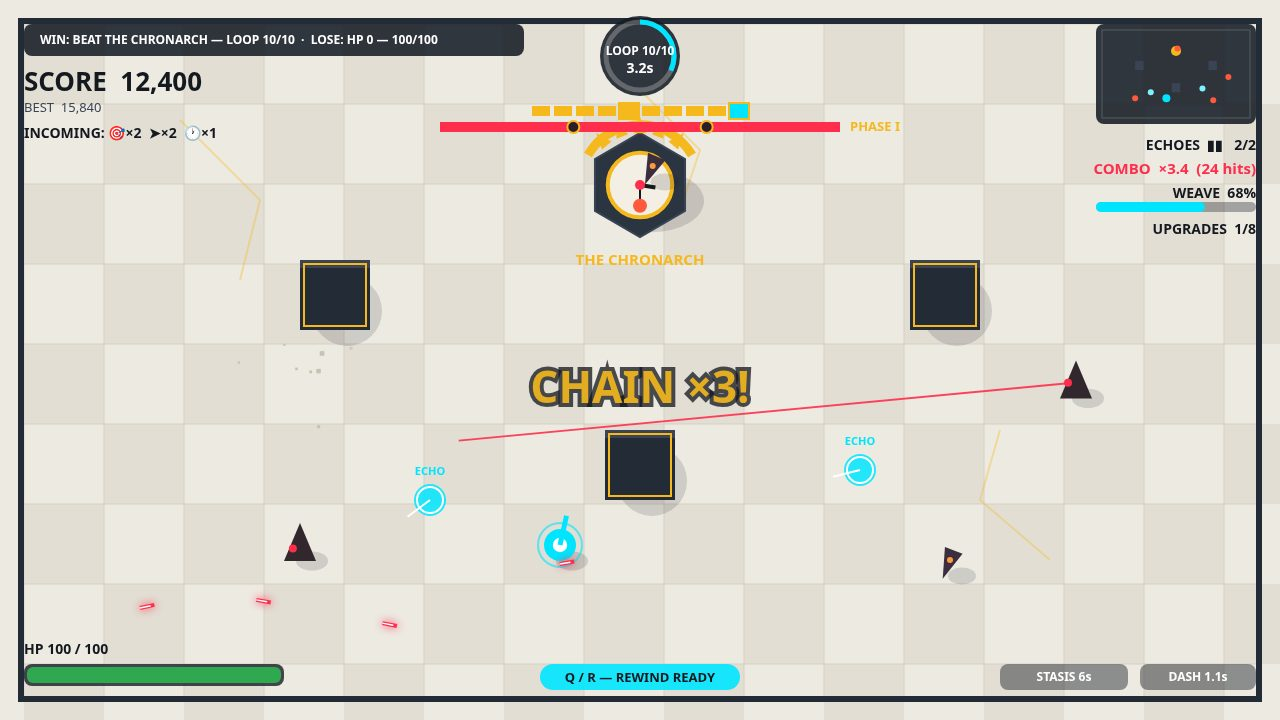
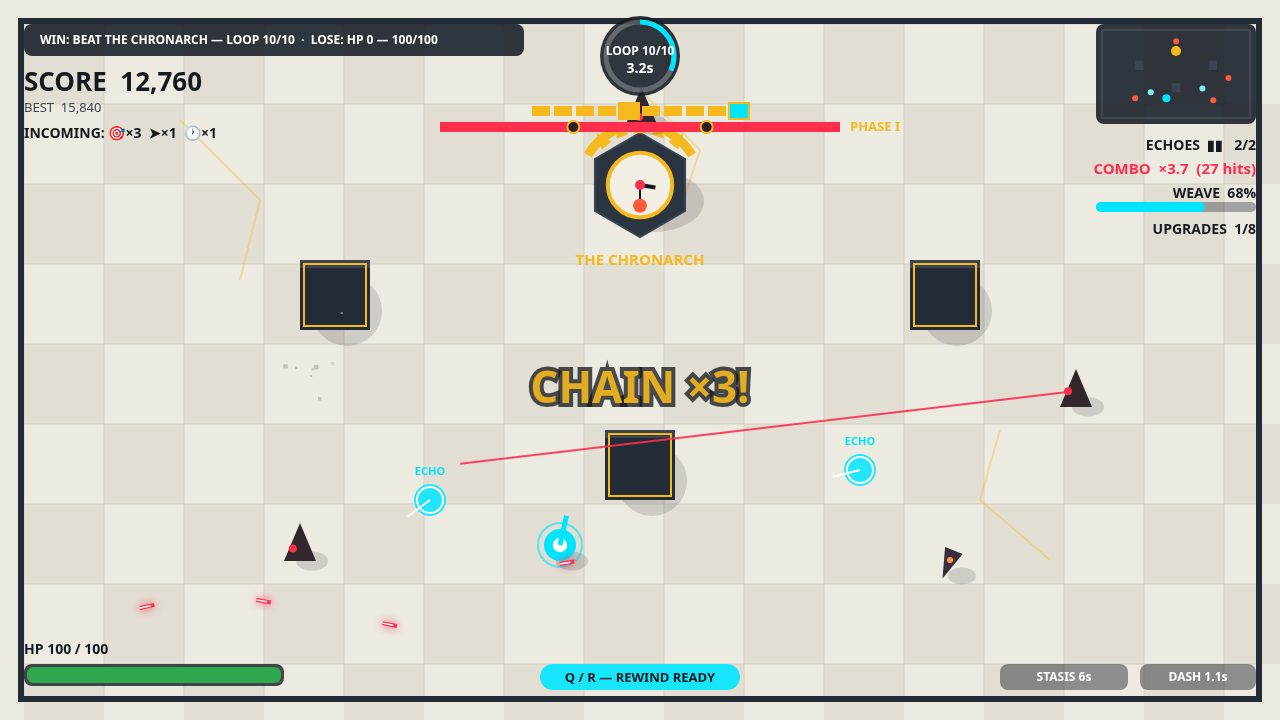
Pass 5: balance counterweight — +20% enemy damage from loop 7, +1 sniper per wave loops 8-10
Measured first: the bot takes exactly one hit per run (always a sniper
bolt, loops 7-9). Damage alone cannot move final HP, so the extra late
sniper adds a bolt-stream the player must actually dodge. Loops 1-6,
upgrades, WEAVE, echoes, rewind untouched. Attempt 2 (+35%, sniper also
in loop 7) undershot the same way AND degraded the hook (seed 9: 9
crossfires, 1 surge) — reverted; attempt 1 kept.

diff --git a/game/src/systems/ArenaDirector.js b/game/src/systems/ArenaDirector.js
@@ -48,6 +48,11 @@ export function layoutPillars(state) {
   state.pillars = pick.map((p) => ({ ...p }));
 }
 
+// PASS 5 COUNTERWEIGHT: loops 8-10 spawn one extra Sniper each. Snipers are
+// the only damage source that ever lands on a strong player (measured: the
+// bot takes exactly one hit per run, always a sniper bolt, loops 7-9) — one
+// more bolt-stream per late wave is pressure the player must actually dodge,
+// not a number tweak on hits that never land.
 export function spawnWave(state, keep) {
   const L = state.loop;
   const elite = L >= 6;
@@ -69,12 +74,12 @@ export function spawnWave(state, keep) {
   }
   else if (L === 6) { add('guardian', 3, true); add('sniper', 2, false); add('bomber', 2, false); add('chaser', 2, false); }
   else if (L === 7) { add('guardian', 3, true); add('sniper', 3, false); add('bomber', 2, false); add('splitter', 2, false); }
-  else if (L === 8) { add('guardian', 4, true); add('sniper', 3, true); add('bomber', 3, false); add('chaser', 2, false); add('splitter', 2, false); }
-  else if (L === 9) { add('guardian', 4, true); add('sniper', 3, true); add('bomber', 3, false); add('chaser', 4, false); add('splitter', 2, true); }
+  else if (L === 8) { add('guardian', 4, true); add('sniper', 4, true); add('bomber', 3, false); add('chaser', 2, false); add('splitter', 2, false); }
+  else if (L === 9) { add('guardian', 4, true); add('sniper', 4, true); add('bomber', 3, false); add('chaser', 4, false); add('splitter', 2, true); }
   else if (L === 10) {
     const c = makeEnemy(state, 'chronarch', 640, 150, false);
     list.push(c); state.boss = c;
-    add('sniper', 2, false); add('chaser', 2, false);
+    add('sniper', 3, false); add('chaser', 2, false);
   }
   // FRAY: a frayed timeline spawns extra Chasers — one per fray (cap 3).
   // The timeout rewind's price, paid at the start of the next loop.

diff --git a/game/src/systems/BallisticsAndShieldSystem.js b/game/src/systems/BallisticsAndShieldSystem.js
@@ -194,12 +194,17 @@ export function damagePlayer(state, dmg, sx, sy, srcType) {
   const p = state.player;
   if (!p.alive || p.invulnT > 0 || p.dashT > 0) return;
   if (srcType) state.lastDamager = srcType;
-  p.hp -= dmg * state.diff.dmgMul;
+  // LATE-GAME COUNTERWEIGHT (Pass 5): from loop 7 on, enemy hits bite 20%
+  // harder. Loops 1-6 are untouched, so the early game and the hook play
+  // exactly as before; only the endgame regains its teeth. Measured: the
+  // bot takes exactly one hit per run, always a sniper bolt in loops 7-9.
+  const final = dmg * state.diff.dmgMul * (state.loop >= 7 ? 1.2 : 1);
+  p.hp -= final;
   p.invulnT = 0.5;
   state.combo = 0; state.comboT = 0;
   state.shake = Math.min(14, state.shake + 6);
   state.events.push({ type: 'playerHit', x: p.x, y: p.y });
-  addFloat(state, p.x, p.y - 28, '-' + Math.round(dmg * state.diff.dmgMul), '#FF2E4D');
+  addFloat(state, p.x, p.y - 28, '-' + Math.round(final), '#FF2E4D');
   if (p.hp <= 0) { p.hp = 0; p.alive = false; state.killerType = srcType || state.lastDamager || null; }
 }
 
